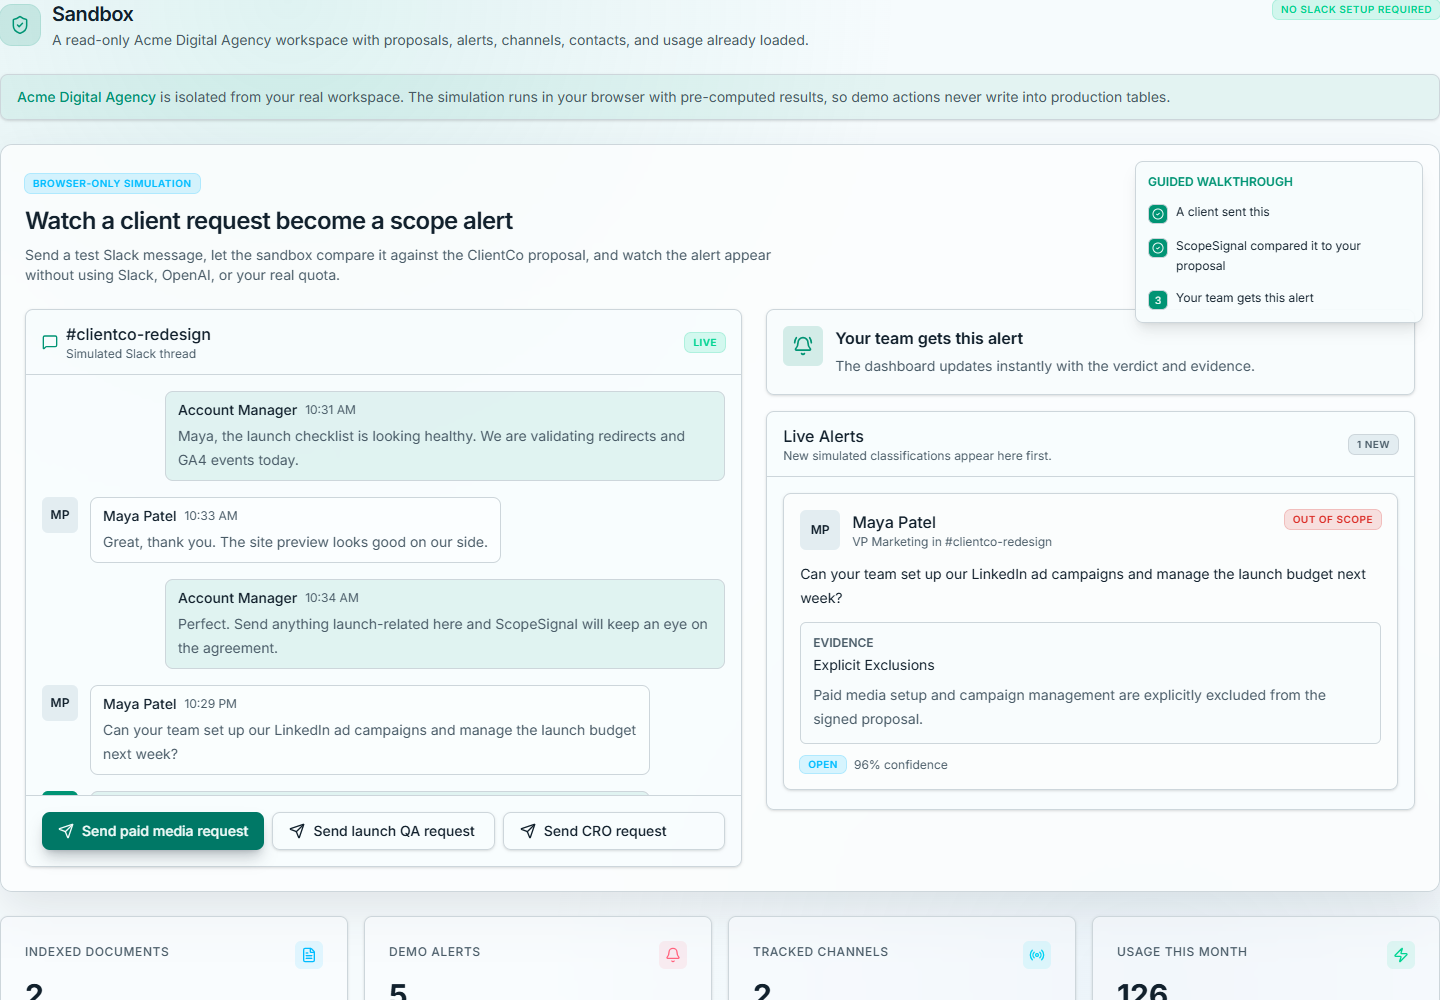
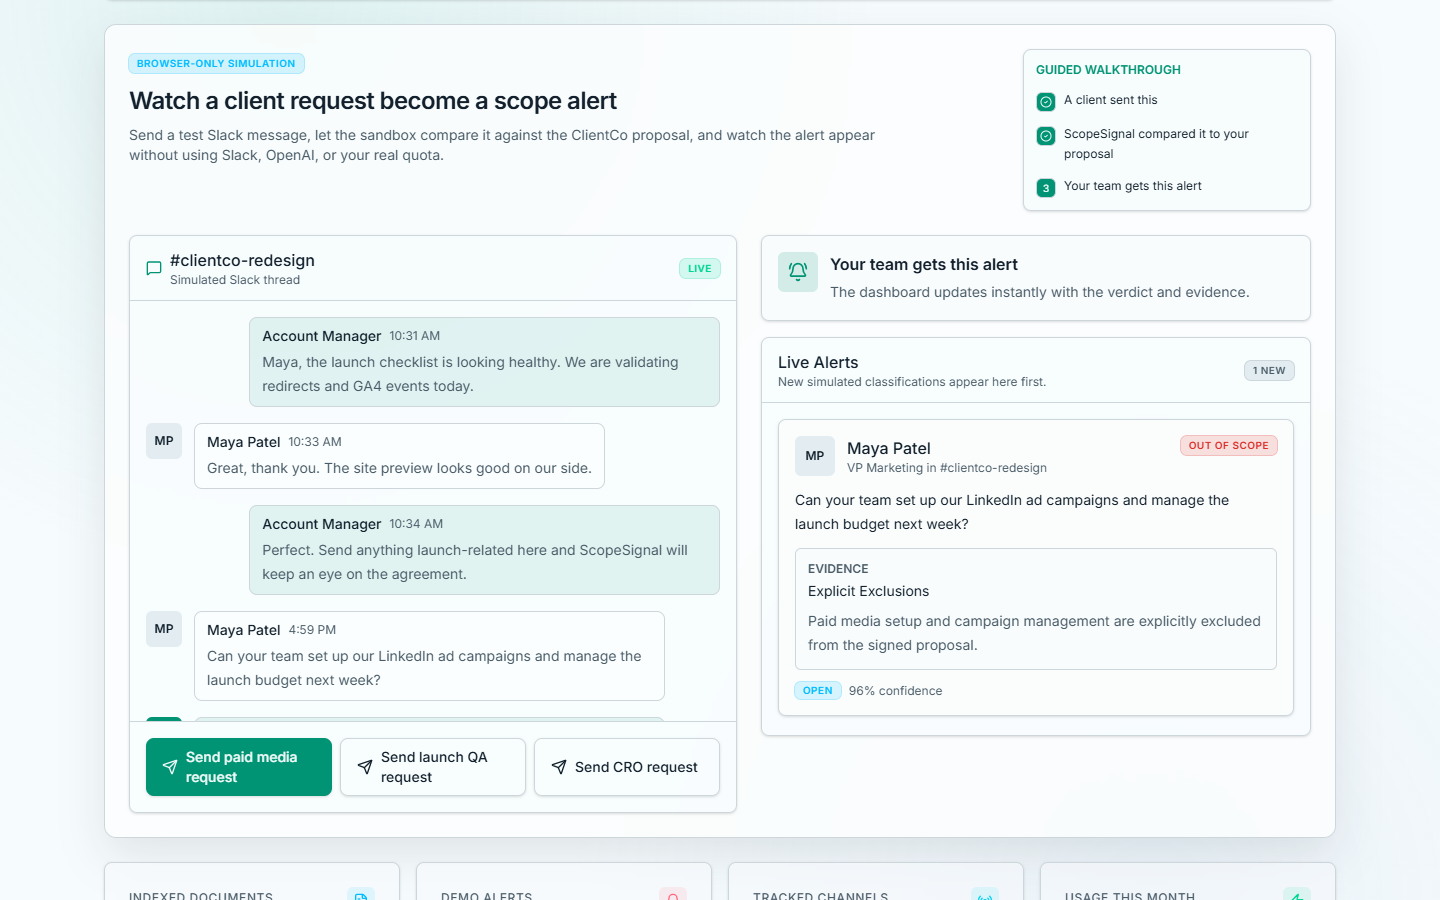
Link the live sandbox and show product screens in the README
Lead with the live demo and the sandbox alert, replace the landing,
how-it-works and pricing screenshots with the alert list, the indexed
proposal and the watched channels, and document the sandbox-only build.

diff --git a/README.md b/README.md
@@ -4,17 +4,18 @@
 
 Contract-aware scope-creep detection for agencies. ScopeSignal reads the signed proposal and any addendums, watches approved client channels in Slack, and warns the account manager when a client request looks like work that isn't in the contract, before anyone says yes to it.
 
-![ScopeSignal landing page](docs/screenshots/landing.png)
-
-**Sandbox demo:** a client asks for paid-media work, and ScopeSignal flags it as out of scope, citing the clause in the signed proposal.
+**Try it live:** the [ScopeSignal sandbox](https://jahanzaib-portfolio.pages.dev/demos/scopesignal/sandbox) runs in the browser with preloaded data. No sign-up, and nothing is saved.
 
 ![Sandbox alert](docs/screenshots/sandbox.png)
+
+A client asks for paid-media work, and ScopeSignal flags it as out of scope, citing the clause in the signed proposal.
 
 <details>
 <summary>More screenshots</summary>
 
-![How it works](docs/screenshots/how-it-works.png)
-![Pricing](docs/screenshots/pricing.png)
+![Alert list with verdicts, confidence and evidence](docs/screenshots/alerts.png)
+![An indexed proposal and its addendum](docs/screenshots/proposal.png)
+![Watched Slack channels and client contacts](docs/screenshots/channels.png)
 
 </details>
 
@@ -68,6 +69,17 @@ npm run worker:scope          # classifies queued Slack messages
 ```
 
 Slack app setup (scopes, event subscriptions, interactivity, OAuth redirect) is covered in [docs/slack-setup.md](docs/slack-setup.md).
+
+### Sandbox only
+
+The sandbox runs entirely in the browser on preloaded data. To build just the sandbox, with no Supabase, Slack or OpenAI settings:
+
+```bash
+NEXT_PUBLIC_SANDBOX_ONLY=1 npm run build
+NEXT_PUBLIC_SANDBOX_ONLY=1 npm start    # every route redirects to /sandbox
+```
+
+Set `SANDBOX_BASE_PATH` (for example `/demos/scopesignal`) to serve it from a sub-path. This is how the live demo is built.
 
 ## Evaluation
 
